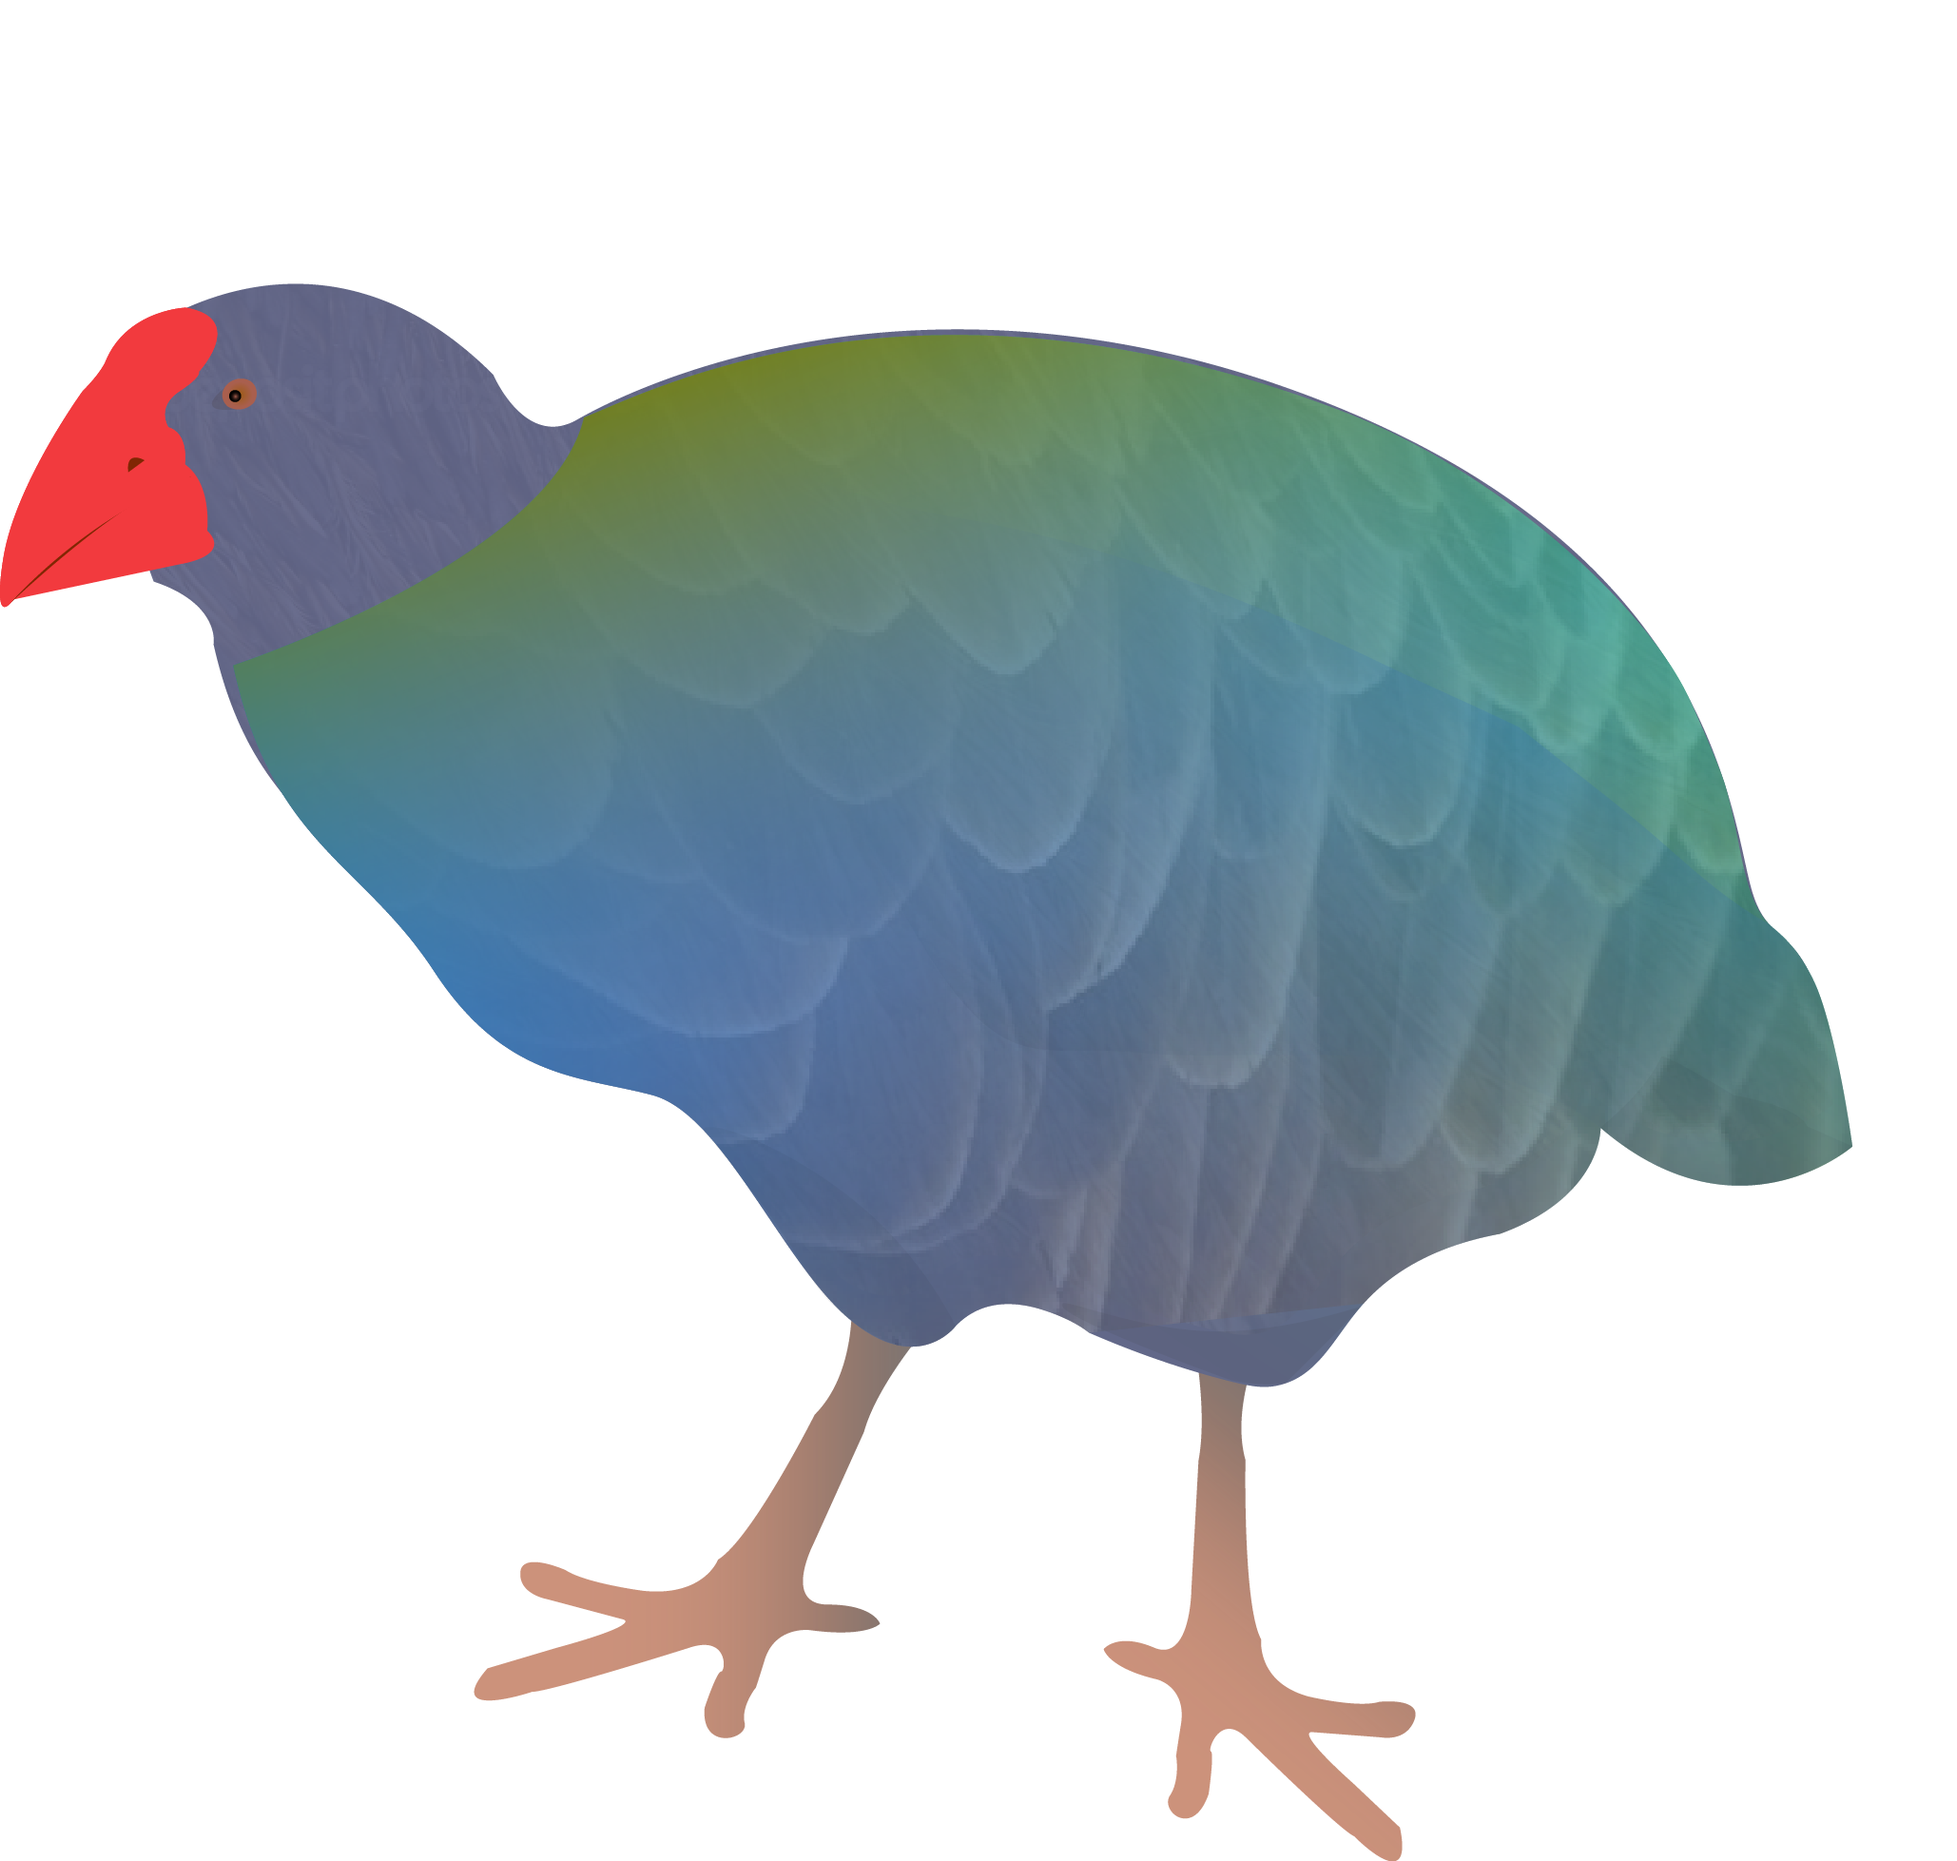
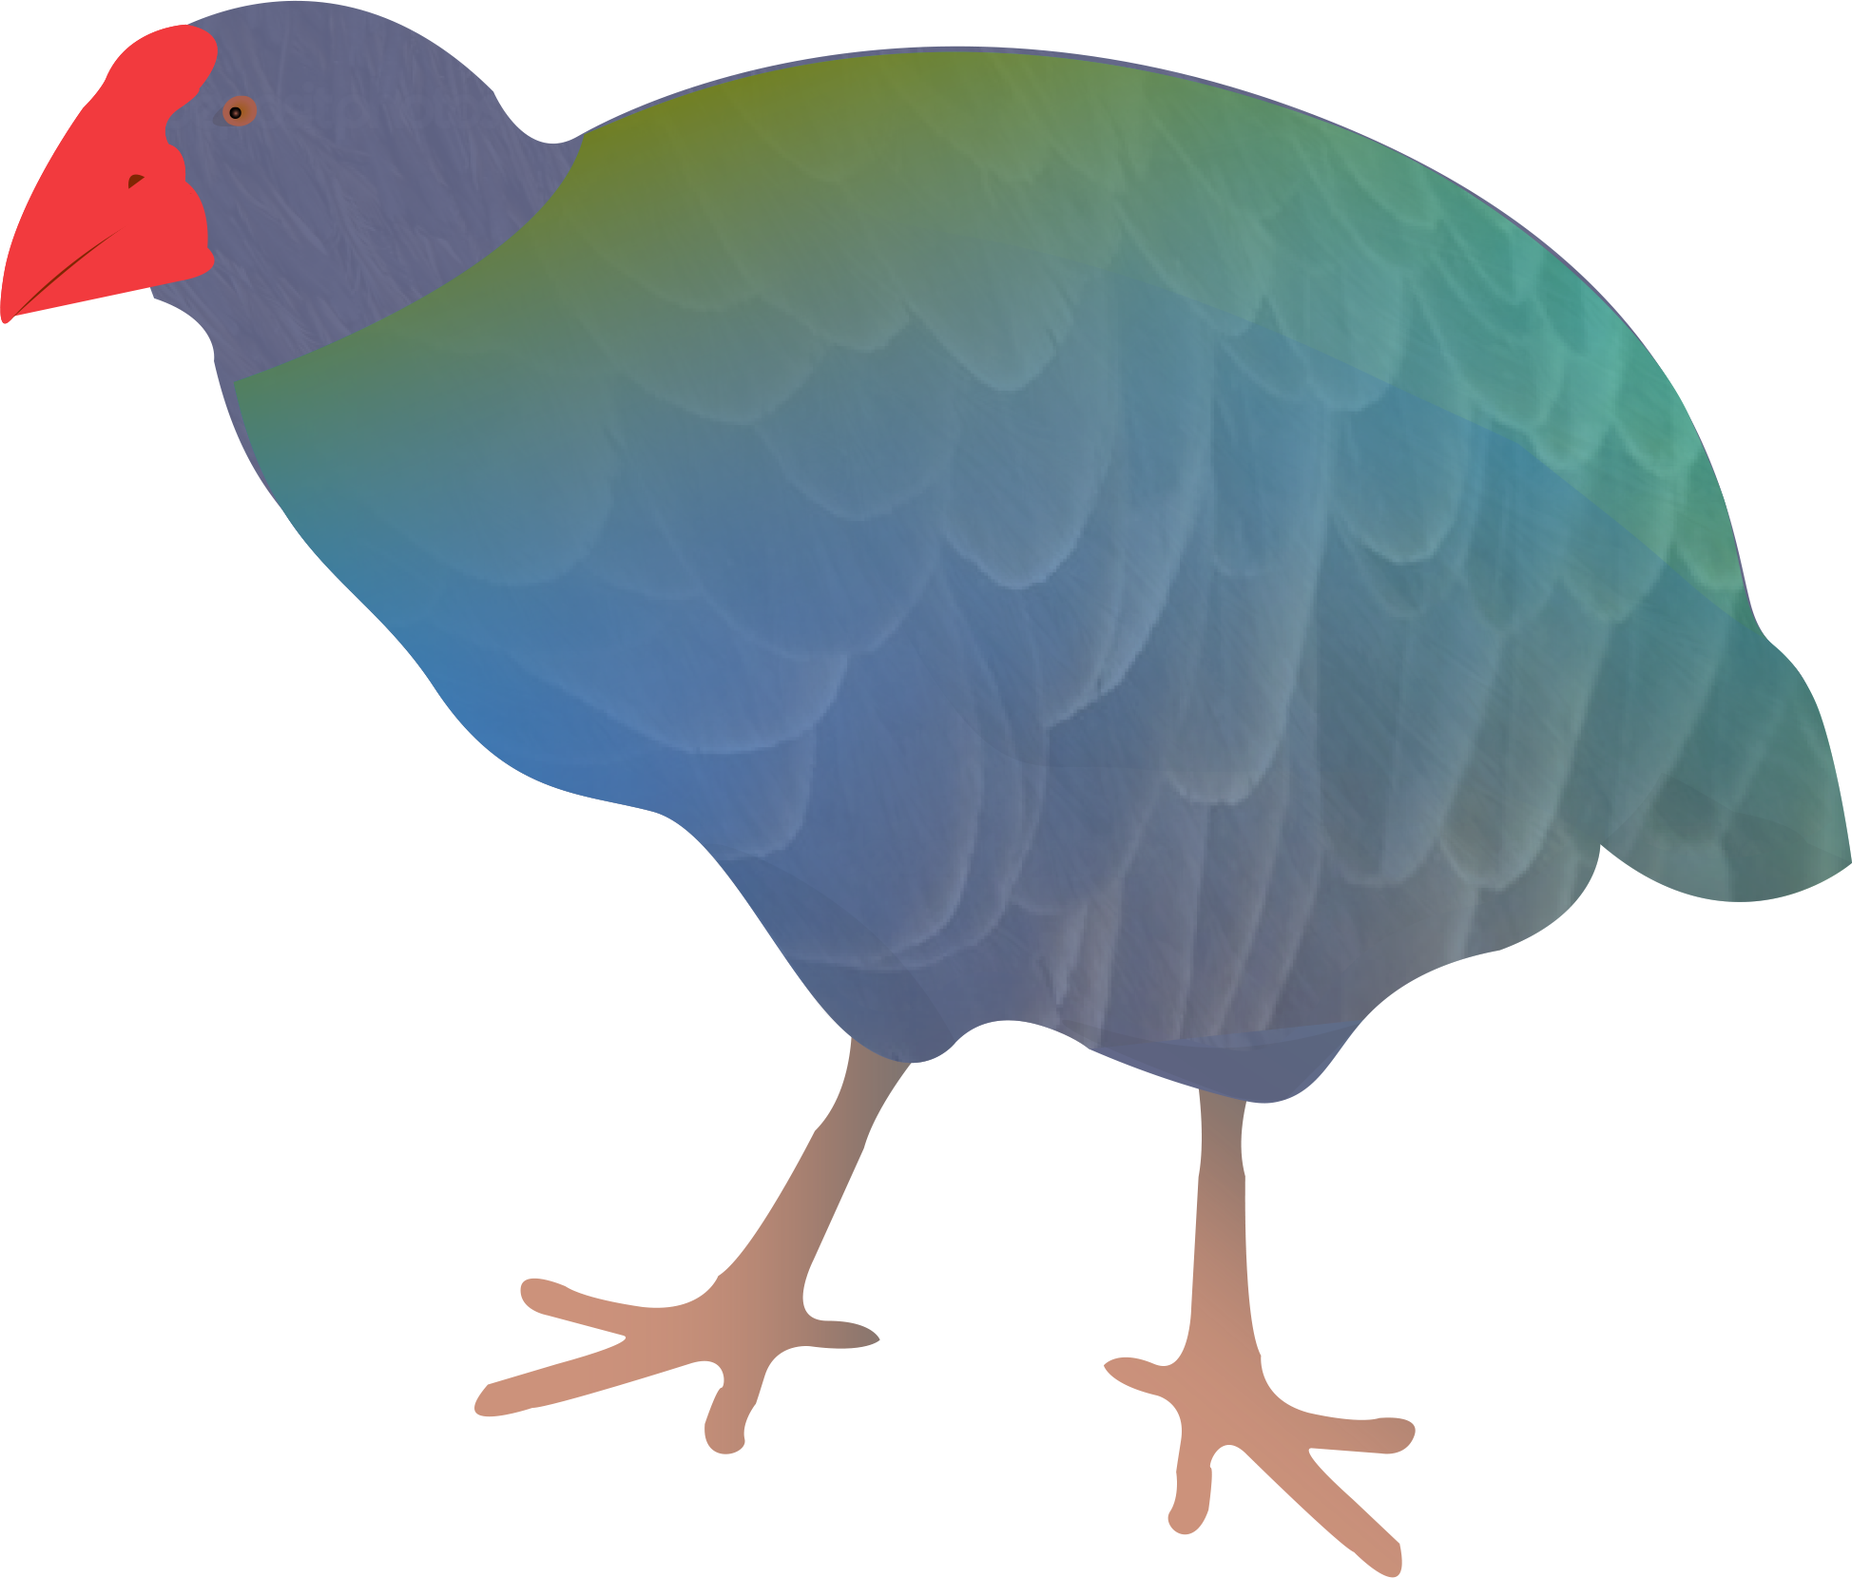
takahe silhouette fade in

diff --git a/js/script.js b/js/script.js
@@ -1,64 +1,73 @@
-$(document).ready(function() {
+$(document).ready(function () {
 
-		// animate the anchor click
-		$('a[href^="#project"]').on('click', function(e) {
-				e.preventDefault();
+    // animate the anchor click
+    $('a[href^="#project"]').on('click', function (e) {
+        e.preventDefault();
 
-				var target = this.hash;
-				var $target = $(target);
+        var target = this.hash;
+        var $target = $(target);
 
-				$('html, body').stop().animate({
-						'scrollTop': $target.offset().top
-				}, 900, 'swing', function() {
-						window.location.hash = target;
-				});
-		});
+        $('html, body').stop().animate({
+            'scrollTop': $target.offset().top
+        }, 900, 'swing', function () {
+            window.location.hash = target;
+        });
+    });
 
-		// when the page scrolls animate the scroll to top button to fade in or out
-		$(window).scroll(function() {
-				if ($(this).scrollTop() > 100) {
-						$('.scroll-to-top').fadeIn();
-				} else {
-						$('.scroll-to-top').fadeOut();
-				}
-		});
+    // when the page scrolls animate the scroll to top button to fade in or out
+    $(window).scroll(function () {
+        if ($(this).scrollTop() > 100) {
+            $('.scroll-to-top').fadeIn();
+        } else {
+            $('.scroll-to-top').fadeOut();
+        }
+    });
 
-		//click to scroll to top
-		$('.scroll-to-top').click(function() {
-				$('html, body').animate({
-						scrollTop: 0
-				}, 800);
-				return false;
-		});
+    //click to scroll to top
+    $('.scroll-to-top').click(function () {
+        $('html, body').animate({
+            scrollTop: 0
+        }, 800);
+        return false;
+    });
 
-	// hide .navbar first
-	$(".navbar.home").hide();
-	$(".opacity-layer").hide();
-	$('.opacity-layer').slideDown(1000, animateFirstText);
-		
+    // hide .navbar first
+    $(".navbar.home").hide();
+    $(".opacity-layer").hide();
+    $('.opacity-layer').slideDown(1000, animateFirstText);
 
-				
-	function animateFirstText(){
-		$('.slide:first').slideDown(200, animateSlideText);
-	}
-				
-	function animateSlideText(){
-		$(this).next('.slide').slideDown(500, animateSlideText);
-	}
-	
 
-	// fade in .navbar
-	$(function () {
-			$(window).scroll(function () {
 
-							 // set distance user needs to scroll before we start fadeIn
-					if ($(this).scrollTop() > 100) {
-							$('.navbar.home').fadeIn();
-					} else {
-							$('.navbar.home').fadeOut();
-					}
-			});
-	});
-		
-		
+    function animateFirstText() {
+        $('.slide:first').slideDown(200, animateSlideText);
+    }
+
+    function animateSlideText() {
+        $(this).next('.slide').slideDown(500, animateSlideText);
+    }
+
+
+    // fade in .navbar
+    $(function () {
+        $(window).scroll(function () {
+
+            // set distance user needs to scroll before we start fadeIn
+            if ($(this).scrollTop() > 100) {
+                $('.navbar.home').fadeIn();
+            } else {
+                $('.navbar.home').fadeOut();
+            }
+        });
+    });
+
+
+});
+
+
+$(document).ready(function () {
+    $(".silhouette").click(function (e) {
+        $(".silhouette").fadeOut('slow', function () {
+            $(".the-takahe").fadeIn('slow');
+        });
+    });
 });

diff --git a/takahe.html b/takahe.html
@@ -522,7 +522,9 @@
             <div class="col-2"></div>
         </div>
 
+        <img class="silhouette" src="images/silhouette.png">
         <img class="the-takahe" src="images/the-takahe.png">
+
 
         <div class="container">
             <div class="row">

diff --git a/css/style.css b/css/style.css
@@ -142,6 +142,12 @@ ul li {
     max-height: 170px;
 }
 
+.silhouette {
+    margin: 0 auto;
+    display: block;
+    max-height: 170px;
+}
+
 .flag {
     margin: 0 auto;
     display: block;
